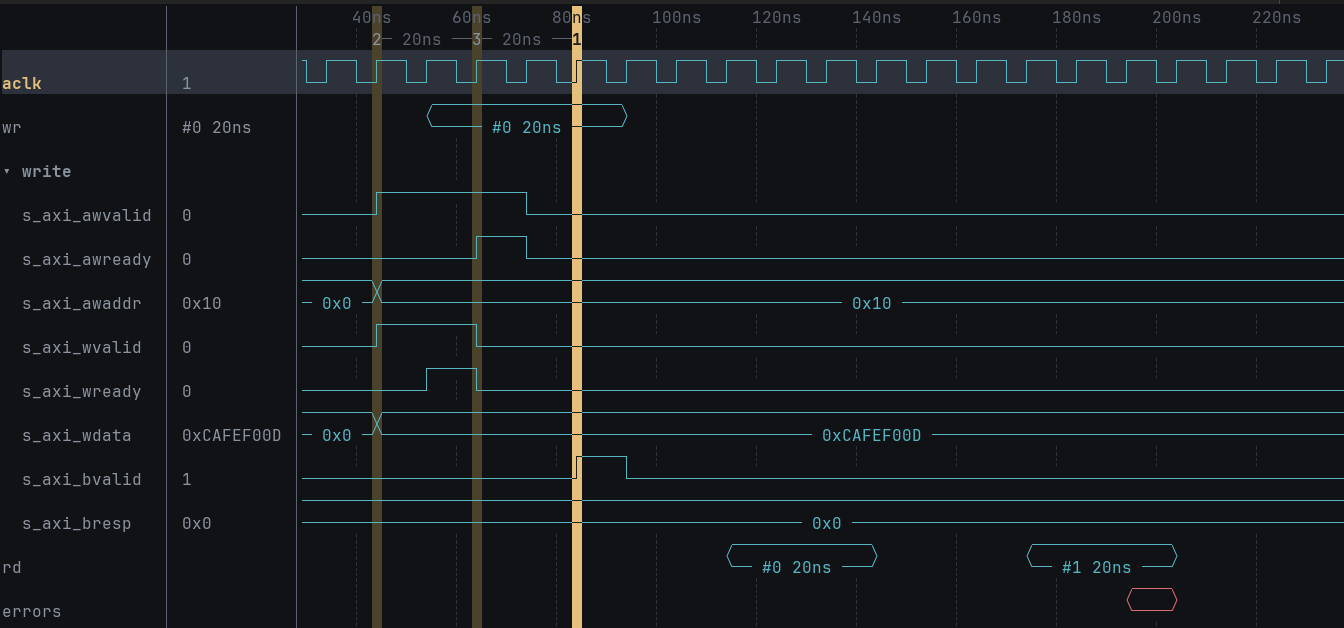
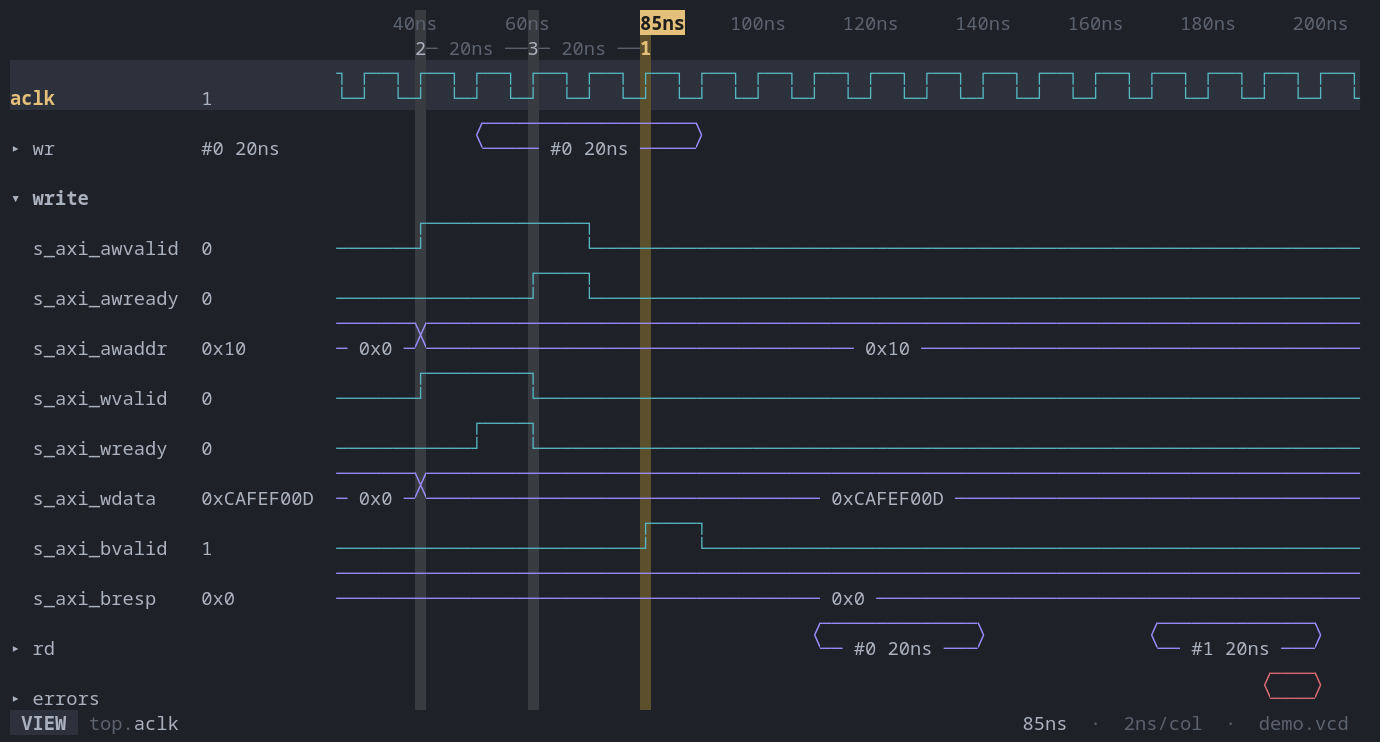
docs: the new look in the README
The demo screenshot still showed the boxes, separators and grid of the
old look. It is now made from `--snapshot --ansi` by docs/screenshot.py,
so the next change of look can redo it with two commands. The features
list gains the mouse, themes and glyph sets.

diff --git a/docs/screenshot.py b/docs/screenshot.py
@@ -1,0 +1,63 @@
+# Turns `wtf --snapshot --ansi` output into an HTML page, for docs/demo.png:
+#   wtf docs/demo.vcd --snapshot 120 --ansi | python3 docs/screenshot.py > /tmp/demo.html
+#   firefox --headless --screenshot "$PWD/docs/demo.png" --window-size=1380,742 file:///tmp/demo.html
+# Needs the Noto Sans Mono font; the legacy computing diagonals of bus edges are drawn as SVG,
+# as fonts rarely have them. The page is shown at 1.25 times its size.
+import re, sys, html
+def c256(n):
+    n=int(n)
+    base=[(0,0,0),(205,49,49),(13,188,121),(229,229,16),(36,114,200),(188,63,188),(17,168,205),(229,229,229),(102,102,102),(241,76,76),(35,209,139),(245,245,67),(59,142,234),(214,112,214),(41,184,219),(255,255,255)]
+    if n<16: return '#%02x%02x%02x'%base[n]
+    if n<232:
+        n-=16; v=[0,95,135,175,215,255]; return '#%02x%02x%02x'%(v[n//36],v[n//6%6],v[n%6])
+    g=8+(n-232)*10; return '#%02x%02x%02x'%(g,g,g)
+BG,FG='#1e2127','#abb2bf'
+W,H=9,20
+# legacy computing diagonals (U+1FBA0..): points as (x,y) in a 0..2 grid
+D={0x1FBA0:[(1,0),(0,1)],0x1FBA1:[(1,0),(2,1)],0x1FBA2:[(0,1),(1,2)],0x1FBA3:[(2,1),(1,2)],
+0x1FBA4:[(1,0),(0,1),(1,2)],0x1FBA5:[(1,0),(2,1),(1,2)],0x1FBA6:[(0,1),(1,2),(2,1)],0x1FBA7:[(0,1),(1,0),(2,1)]}
+def cell(ch,s,fg):
+    o=ord(ch)
+    if o in D:
+        pts=' '.join('%g,%g'%(x*W/2,y*H/2) for x,y in D[o])
+        inner='<svg width="%d" height="%d" style="display:block"><polyline points="%s" fill="none" stroke="%s" stroke-width="1.2"/></svg>'%(W,H,pts,fg)
+    else: inner=html.escape(ch)
+    return '<span style="%sdisplay:inline-block;width:%dpx;height:%dpx;line-height:%dpx;overflow:visible;vertical-align:top">%s</span>'%(s,W,H,H,inner)
+out=[]
+for line in sys.stdin.read().split('\n'):
+    st={'fg':None,'bg':None,'b':False,'r':False,'i':False,'u':False}
+    parts=re.split(r'(\x1b\[[0-9;:]*m)',line); row=''
+    for p in parts:
+        m=re.match(r'\x1b\[([0-9;:]*)m',p)
+        if m:
+            a=[x for x in re.split('[;:]',m.group(1))] or ['0']
+            i=0
+            while i<len(a):
+                x=a[i] or '0'; x=int(x)
+                if x==0: st={'fg':None,'bg':None,'b':False,'r':False,'i':False,'u':False}
+                elif x==1: st['b']=True
+                elif x==3: st['i']=True
+                elif x==4: st['u']=True
+                elif x==7: st['r']=True
+                elif x==22: st['b']=False
+                elif x==23: st['i']=False
+                elif x==24: st['u']=False
+                elif x==27: st['r']=False
+                elif x in (38,48):
+                    k='fg' if x==38 else 'bg'
+                    if a[i+1]=='2': st[k]='#%02x%02x%02x'%tuple(int(v) for v in a[i+2:i+5]); i+=4
+                    else: st[k]=c256(a[i+2]); i+=2
+                elif x==39: st['fg']=None
+                elif x==49: st['bg']=None
+                elif 30<=x<=37: st['fg']=c256(x-30)
+                elif 90<=x<=97: st['fg']=c256(x-90+8)
+                elif 40<=x<=47: st['bg']=c256(x-40)
+                i+=1
+            continue
+        if not p: continue
+        fg,bg=st['fg'] or FG, st['bg'] or BG
+        if st['r']: fg,bg=bg,fg
+        s='color:%s;background:%s;'%(fg,bg)+('font-weight:bold;' if st['b'] else '')+('font-style:italic;' if st['i'] else '')+('text-decoration:underline;' if st['u'] else '')
+        for ch in p: row+=cell(ch,s,fg)
+    out.append(row)
+print('<html><body style="zoom:1.25;margin:0;background:%s"><div style="margin:8px;font:15px \'Noto Sans Mono\',monospace;color:%s;white-space:pre">%s</div></body></html>'%(BG,FG,''.join('<div style="height:%dpx">%s</div>'%(H,r) for r in out)))

diff --git a/README.md b/README.md
@@ -15,7 +15,8 @@ ready and the response, with the time between them on the ruler. Try it:
 
 - **Vim-like.** Time is the line axis: `h` / `l` move the cursor, `w` / `b` jump between
   transitions, `gg` / `G` go to the start / end, `:2000ns` goes to a time, `z` / `x` zoom.
-  Viewing is the default; changing what is shown is a separate Edit mode (`i`).
+  Viewing is the default; changing what is shown is a separate Edit mode (`i`). The mouse works
+  too: click to place the cursor, Ctrl+wheel to zoom.
 - **Signals.** A searchable signal tree, groups, buses expanded into bits, radixes (hex, binary,
   decimal, signed, octal, ASCII, float, fixed point, and enum names from FST files), computed
   signals (`data[7:4]`, `{a, b}`).
@@ -27,6 +28,9 @@ ready and the response, with the time between them on the ruler. Try it:
   lines.
 - **Sessions.** What you look at is saved in a TOML file next to the trace and comes back the
   next time. After you rerun the simulation, `:e` reloads it.
+- **Easy on the eyes.** Dark and light themes or your own colours, X and Z told apart by shape as
+  well as colour, `NO_COLOR`, and plain box drawing or ASCII for fonts and terminals that need
+  it (`--glyphs`).
 - **AI agents.** `wtf --mcp` lets an agent open your trace, find and decode what matters, and
   show its evidence in your window.
 
@@ -46,6 +50,7 @@ This installs the `wtf` command. Linux and macOS; Windows is not supported.
 wtf trace.fst              # or .vcd; the format is read from the content
 wtf -S my.session.toml trace.fst
 wtf --snapshot 120 trace.fst   # one screen as text, for CI logs and bug reports
+wtf --snapshot 120x30 --ansi --keys '?' trace.fst   # in colour, after pressing keys
 ```
 
 At first the screen is empty: press `i` to add signals (`/` searches, `Space` marks, `Enter`
